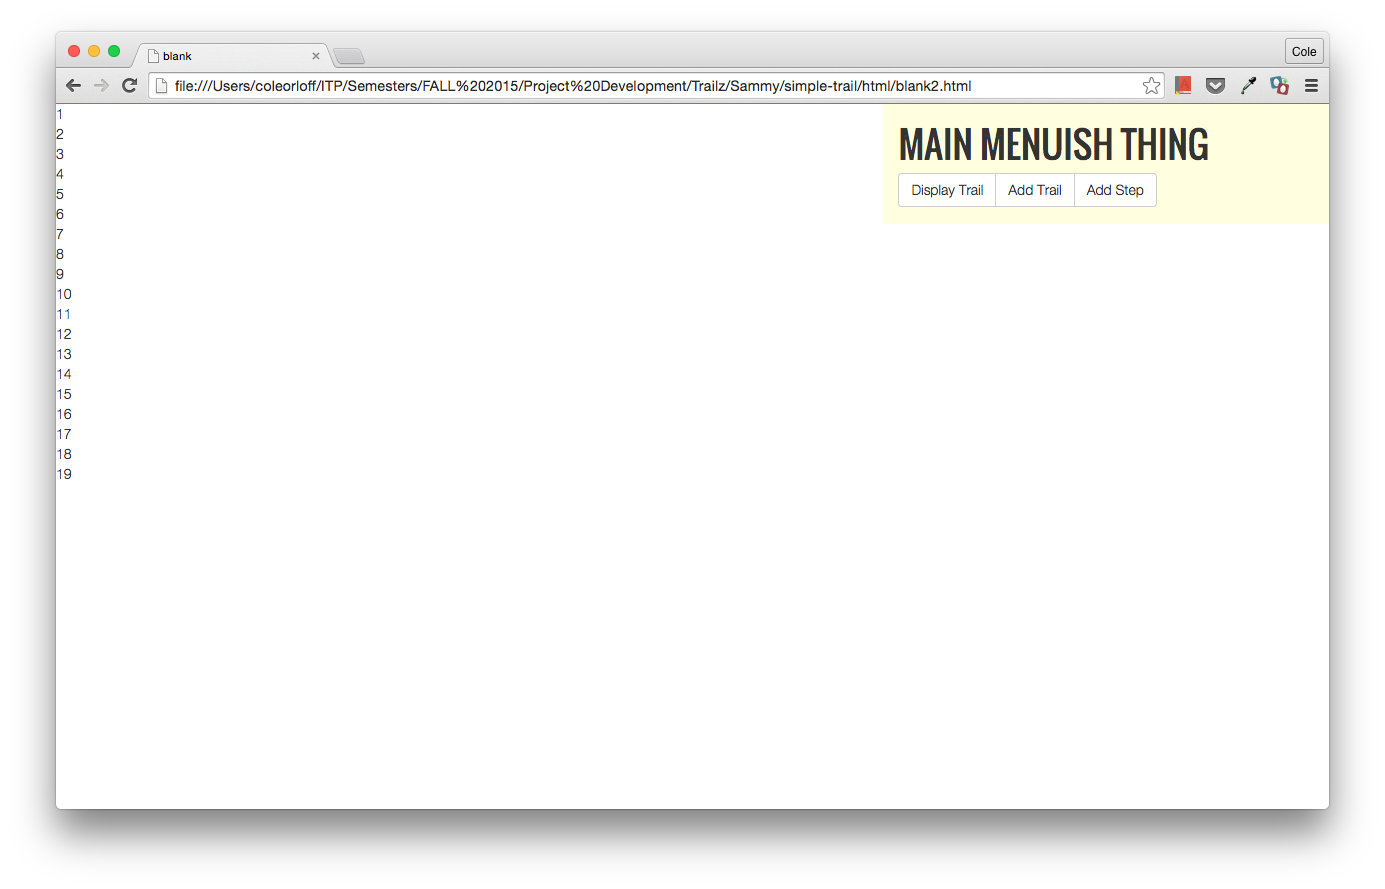
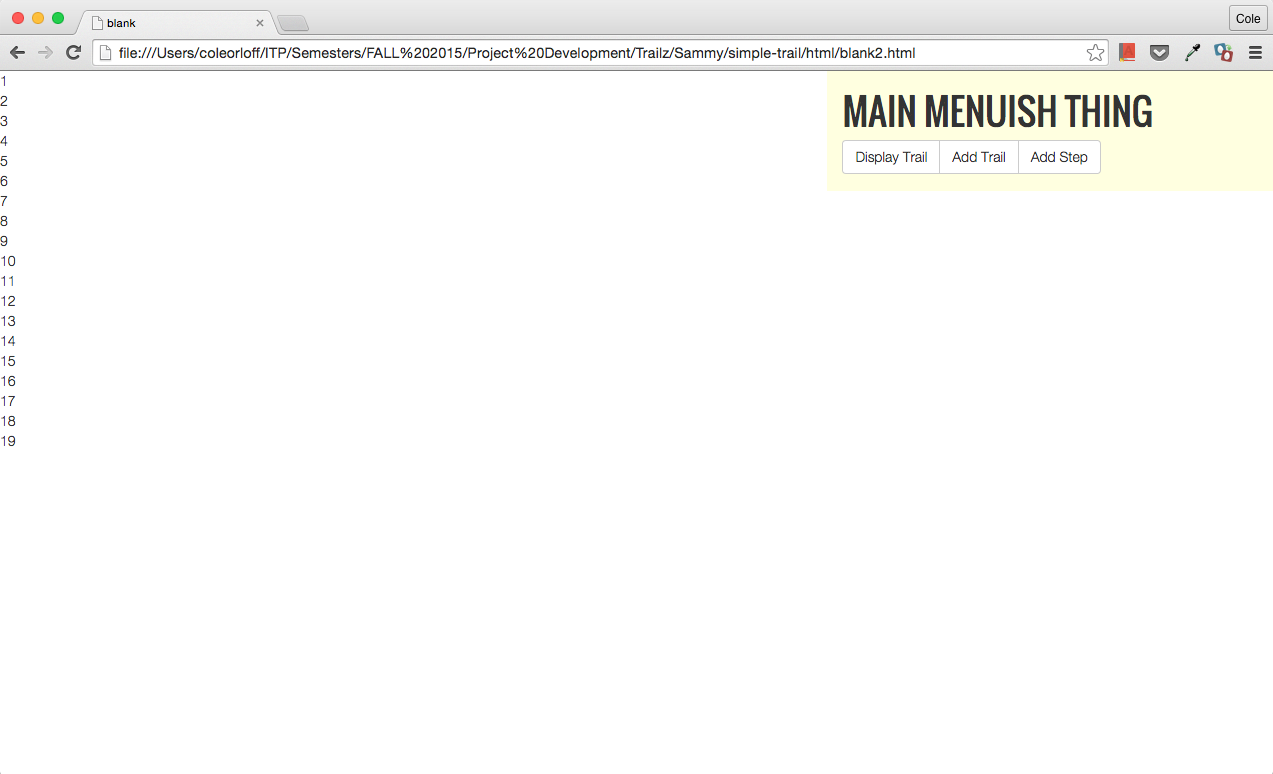
added style changes

Changed region(s): [[0.0, 0.0, 1.0, 0.9612]]

diff --git a/week_12/index.html b/week_12/index.html
@@ -14,10 +14,12 @@
   <body>
     <div class="container">
        <div class="row">
-<a href="http://samsadtler.github.io/project-development-studio/">Main Page</a>
-<h1>What Can A Picture Tell Us</h1>
+
+<h1><a href="http://samsadtler.github.io/project-development-studio/">Main Page</a></h1>
+<h1>What Can A Picture Tell Us?</h1>
 <div class="col-sm-8">
-	<img src="img/progress.png">
+	
+	<img class="img-responsive" src="img/progress.png">
 	<p>
 		What can this image tell us about the progress of our pursuits? Well in the image one might see the research process. A series of browser tabs open in a window. Some of these tabs are relevant to the question at hand, "How do we make bookmarks useful?". In the first tab there is what might be described as a diamond, it serves an imperfect consolidation device, which hides all of your musings into <b>one</b> tab. It is imperfect because I never use it for its intended purpose. The next 4 tabs have to do with Mongoose Databases, particularly how to make subdocuments or in other words a nested file structure inside of a database. I haven't used those tabs in 2 weeks. The next 2 tabs are github pages which are entirely unrelated to Trailz-with-a-z, aside from the fact that we a posting our code to github, but that's only tangentially related. The remaining 7 tabs are project relevant, but largely because they illuminate the development process. 
 
@@ -27,14 +29,14 @@
 
 		But, returning our attention to the original image, the fact is it didn't really tell us anything except the quality of our extension thus far, that is to say jumbled. That is to say I told you, but thats ok because without the picture my words would mean much less. The picture however is also a lie because we have made significant process since then. 
 
-		<img src="img/closed.png">
+		<img class="img-responsive" src="img/closed.png">
 		Here we have blank page which has a customized heading and menu bar programmatically injected into it from the Chrome extension. The file path which is where the URL normally lives is a mashup of personal organization and affection. The latter being there largely because Cole has referred to me as Sammy --> /Project%20Development/Trailz/Sammy/ the other folders in the system path indicate categorical organization going from broad to specific. 
 
 		This second (third) image shows the content of our server being added to the page after the "Display Trailz" button is pressed.
 
-		<img src="img/open.png">
+		<img class="img-responsive" src="img/open.png">
 
-		This is where I need to make a <h2>Project Update</h2> or if we're still talking about <h2>Trailz with a z</h2>, a fork in the path. Cole, and I have a tendency to talk a lot. This is great because we are constantly refining, remixing and retelling our ideas. That said, our tendency towards talking means that it's only now (admittedly late in the game) that I have an update for the trail summit. 
+		This is where I need to make a <h2 class="inline">Project Update</h2> or if we're still talking about <h2 class="inline">Trailz with a z</h2>, a fork in the path. Cole, and I have a tendency to talk a lot. This is great because we are constantly refining, remixing and retelling our ideas. That said, our tendency towards talking means that it's only now (admittedly late in the game) that I have an update for the trail summit. 
 
 		Instead of focusing on where we've been, Trailz, is now focusing on where we are. "Very <i>mindful</i> of you." Thanks. We know. We arrived here because of a few things, but primarily because we realized that the way we were intending to visualize the "trailz" were in the form of a branching tree structure, which seems great initially, but when it comes down to it, it seemed like too rigid a form. Forcing user data to conform to a tree structure is both difficult and likely to result in bad user interaction. Specifically, it would likely require them to manage their own branches and paths. Gross! By focusing on the present we do not have to worry to much about how to display a users history, we just have to worry about serving up relevant bookmarked content to the site they are on. Fortunately, this doesn't derail our efforts thus far. 
 

diff --git a/week_12/css/index.css b/week_12/css/index.css
@@ -3,3 +3,13 @@ body{
 	font-style: white;
 	color: white;
 }
+
+.inline{
+	display: inline-block;
+}
+
+.shadow {
+ -webkit-box-shadow: 0 0 6px 4px gray;
+   -moz-box-shadow: 0 0 6px 4px gray;
+        box-shadow: 0 0 6px 4px gray;
+}
